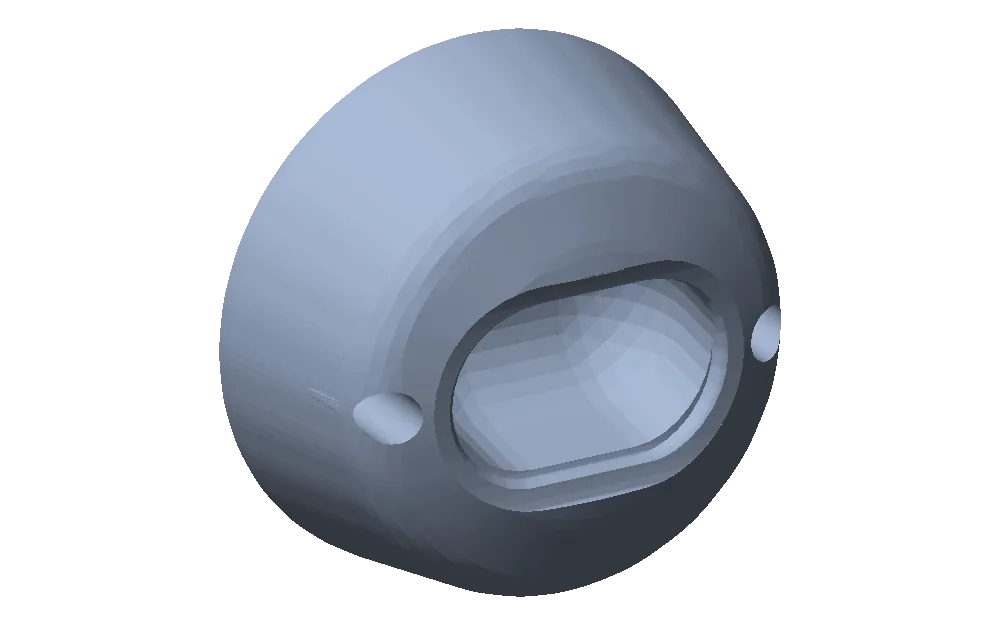
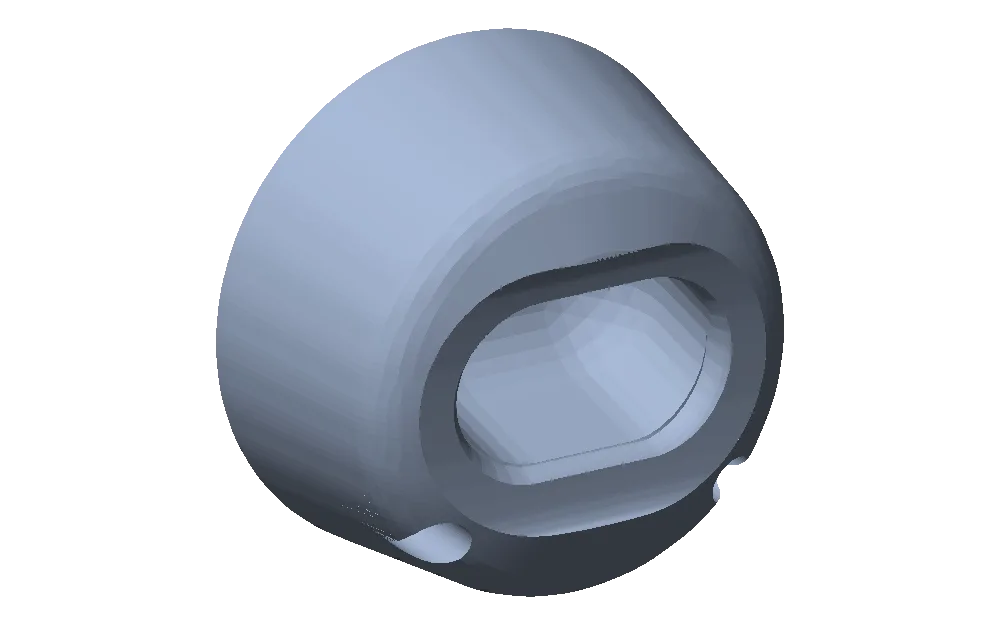
Pocket Lab: softer lip, deeper pockets, and a lip tangent to the wall (RIL-61)
Riley's first test: the mouth edge read as sharp, and the default pocket
was shallow. Lip rounding now defaults to 8 mm (range 2–15) and the
two-finger default is 40 mm deep in a 50 mm body; the presets move with
it, and the Slopey pocket's body grows to fit its 10 mm lip.

The sharpness had a geometric cause too: the lip rings were stacked
straight down the wall's axis while the cavity wall is tilted by the
floor angle, so the two crossed and left a ridge on the upper edge of
the mouth (on the floor edge for a slopey pocket). Each ring now starts
from the tilted slot's own section at its height, so the fillet leaves
the wall tangentially at any angle.

Two limits the random sweep found: the lip is capped at half the pocket
depth (reported to the lab as a slider limit, as the Crimp Lab does for
its lip), since a deeper fillet would start below the pocket's floor;
and the rim radius is capped by the wobbled footprint's inradius, which
could vanish on a small body with strong asymmetry.

diff --git a/tools/pocket-generator/geometry.py b/tools/pocket-generator/geometry.py
@@ -47,7 +47,19 @@ def sphere_points(radius, segments):
 
 
 def largest(section):
-    return np.asarray(max(section.to_polygons(), key=len))
+    polygons = section.to_polygons()
+    if not polygons:
+        raise ValueError("The pocket does not fit this body.")
+    return np.asarray(max(polygons, key=len))
+
+
+def lip_limit(p):
+    """The most lip rounding a pocket can take: half its depth, so the
+    fillet's lowest ring still meets the cavity wall; no limit once the
+    pocket opens to the wall."""
+    if p.through:
+        return LIMITS["lip_radius"][1]
+    return min(LIMITS["lip_radius"][1], p.pocket_depth / 2)
 
 
 def stadium(width, height, arc=24):
@@ -80,9 +92,6 @@ def shell(p, count):
     scale = p.size / 100
     width, height, depth = p.width * scale, p.height * scale, p.depth * scale
     rim = depth * (1 - p.crown / 100)
-    radius = max(
-        1.0, min(p.edge_rounding * scale, rim - 1, width / 2 - 1, height / 2 - 1)
-    )
     rng = np.random.default_rng(p.seed)
     phase = rng.uniform(0, 2 * math.pi, 2)
     drift = rng.uniform(-1, 1, 2) * 0.1 * p.character * np.array([width, height]) / 2
@@ -95,7 +104,14 @@ def shell(p, count):
     wobble = 1 + 0.08 * p.character * (
         0.6 * np.sin(2 * t + phase[0]) + 0.4 * np.sin(3 * t + phase[1])
     )
-    back = manifold.CrossSection([np.column_stack((x * wobble, y * wobble)).tolist()])
+    outline = np.column_stack((x * wobble, y * wobble))
+    # The rim radius must leave a ring of sphere centres inside the
+    # footprint, wobble included, or the inset outline vanishes.
+    radius = max(
+        1.0,
+        min(p.edge_rounding * scale, rim - 1, np.min(np.hypot(*outline.T)) - 1.5),
+    )
+    back = manifold.CrossSection([outline.tolist()])
     ring = largest(back.offset(-radius, manifold.JoinType.Round, 2.0, 32))
     top = ring * (1 - p.taper / 100)
     front = manifold.CrossSection([top.tolist()]).offset(
@@ -186,14 +202,19 @@ def trumpet(p, solid, cut, depth, quality):
     draped onto the real surface. The hulls between neighbouring rings are
     convex, and their union leaves a rounded edge on the body."""
     q = QUALITY[quality]
-    lip = p.lip_radius
-    mouth = cut.slice(depth)
+    lip = min(p.lip_radius, lip_limit(p))
+    # Each ring starts from the tilted slot's own section at its height, so
+    # the fillet leaves the cavity wall tangentially wherever the floor
+    # angle has moved that wall; stacking one mouth outline straight down
+    # left a ridge where the two crossed.
+    face = float(surface_height(solid, np.array([[0.0, 0.0]]), depth)[0])
     rings = []
     for i in range(q["slabs"] + 1):
         a = math.pi / 2 * i / q["slabs"]
         grow, drop = lip * (1 - math.cos(a)), lip * (1 - math.sin(a))
+        section = cut.slice(face - drop)
         outline = largest(
-            mouth.offset(grow, manifold.JoinType.Round, 2.0, 32) if grow else mouth
+            section.offset(grow, manifold.JoinType.Round, 2.0, 32) if grow else section
         )
         rings.append(
             np.column_stack((outline, surface_height(solid, outline, depth) - drop))
@@ -343,6 +364,13 @@ class Model:
             triangles=len(self.mesh.faces),
             watertight=bool(self.mesh.is_watertight),
             floor=round(float(self.floor), 1),
+            # A shallow pocket caps its lip rounding; the lab limits the
+            # slider to what was built.
+            control_limits=(
+                {"lip_radius": round(limit, 1)}
+                if (limit := lip_limit(self.parameters)) < LIMITS["lip_radius"][1]
+                else {}
+            ),
         )
 
 

diff --git a/tools/pocket-generator/parameters.py b/tools/pocket-generator/parameters.py
@@ -10,15 +10,15 @@ class Parameters:
     # into the hold along the floor; the floor angle tilts that axis.
     opening_width: float = 45
     opening_height: float = 28
-    pocket_depth: float = 30
+    pocket_depth: float = 40
     floor_angle: float = 10
-    lip_radius: float = 4
+    lip_radius: float = 8
     through: bool = False
     # The body, before overall scale.
     size: float = 100
     width: float = 85
     height: float = 85
-    depth: float = 42
+    depth: float = 50
     roundness: float = 100
     edge_rounding: float = 10
     crown: float = 15
@@ -77,7 +77,7 @@ CONTROLS = [
         "Pocket depth",
         "Grip",
         12,
-        50,
+        60,
         1,
         "mm",
         "Measured into the hold along the floor. One finger pad is about 20 mm, two pads about 40.",
@@ -97,11 +97,11 @@ CONTROLS = [
         "lip_radius",
         "Lip rounding",
         "Grip",
-        1,
-        8,
+        2,
+        15,
         0.5,
         "mm",
-        "Rounds the mouth where your fingers rest.",
+        "Rounds the mouth where your fingers rest. A bigger radius is kinder on the skin and needs more body around the opening.",
     ),
     control(
         "size",
@@ -272,39 +272,42 @@ PRESETS = {
         BASE,
         opening_width=26,
         opening_height=26,
-        pocket_depth=28,
+        pocket_depth=36,
         floor_angle=15,
         width=70,
         height=70,
-        depth=40,
+        depth=46,
     ),
     "Three-finger pocket": replace(
         BASE,
         opening_width=66,
         opening_height=30,
-        pocket_depth=32,
+        pocket_depth=40,
         floor_angle=8,
         width=110,
         height=85,
-        depth=44,
+        depth=50,
     ),
-    "Deep two-finger": replace(BASE, pocket_depth=45, floor_angle=12, depth=56),
+    "Deep two-finger": replace(BASE, pocket_depth=52, floor_angle=12, depth=62),
     "Slopey pocket": replace(
         BASE,
         opening_height=30,
-        pocket_depth=22,
+        pocket_depth=26,
         floor_angle=-12,
-        lip_radius=6,
+        lip_radius=10,
         crown=25,
+        width=88,
+        height=88,
+        depth=42,
     ),
     "Pocket rail": replace(
         BASE,
         roundness=25,
         width=120,
         height=70,
-        depth=40,
+        depth=42,
         opening_height=26,
-        pocket_depth=26,
+        pocket_depth=30,
         floor_angle=15,
     ),
 }
